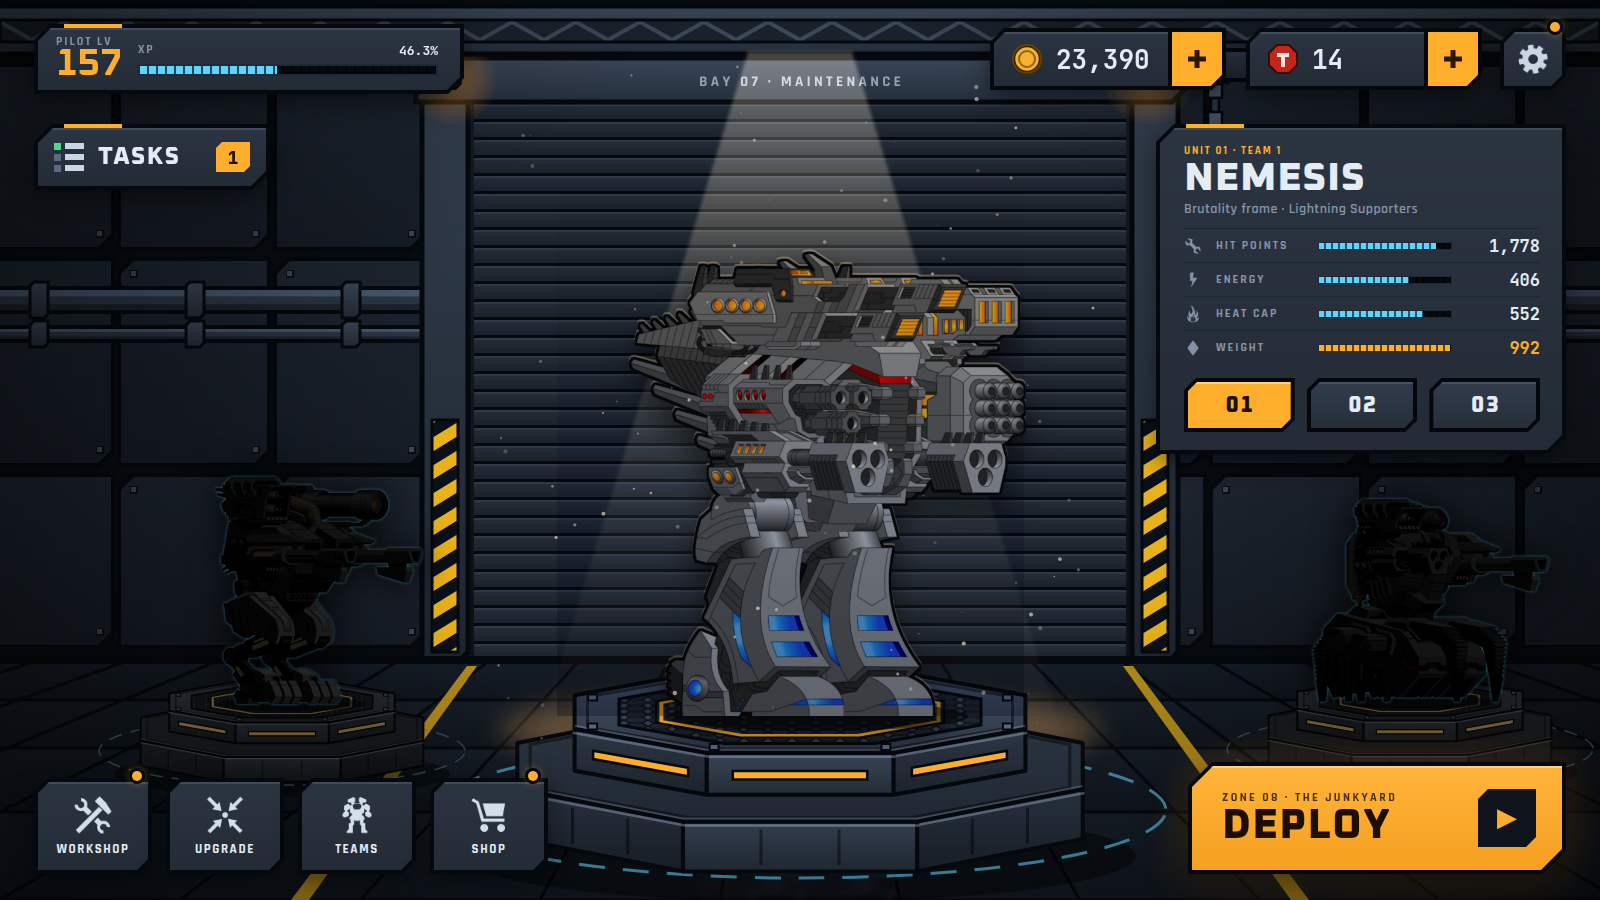
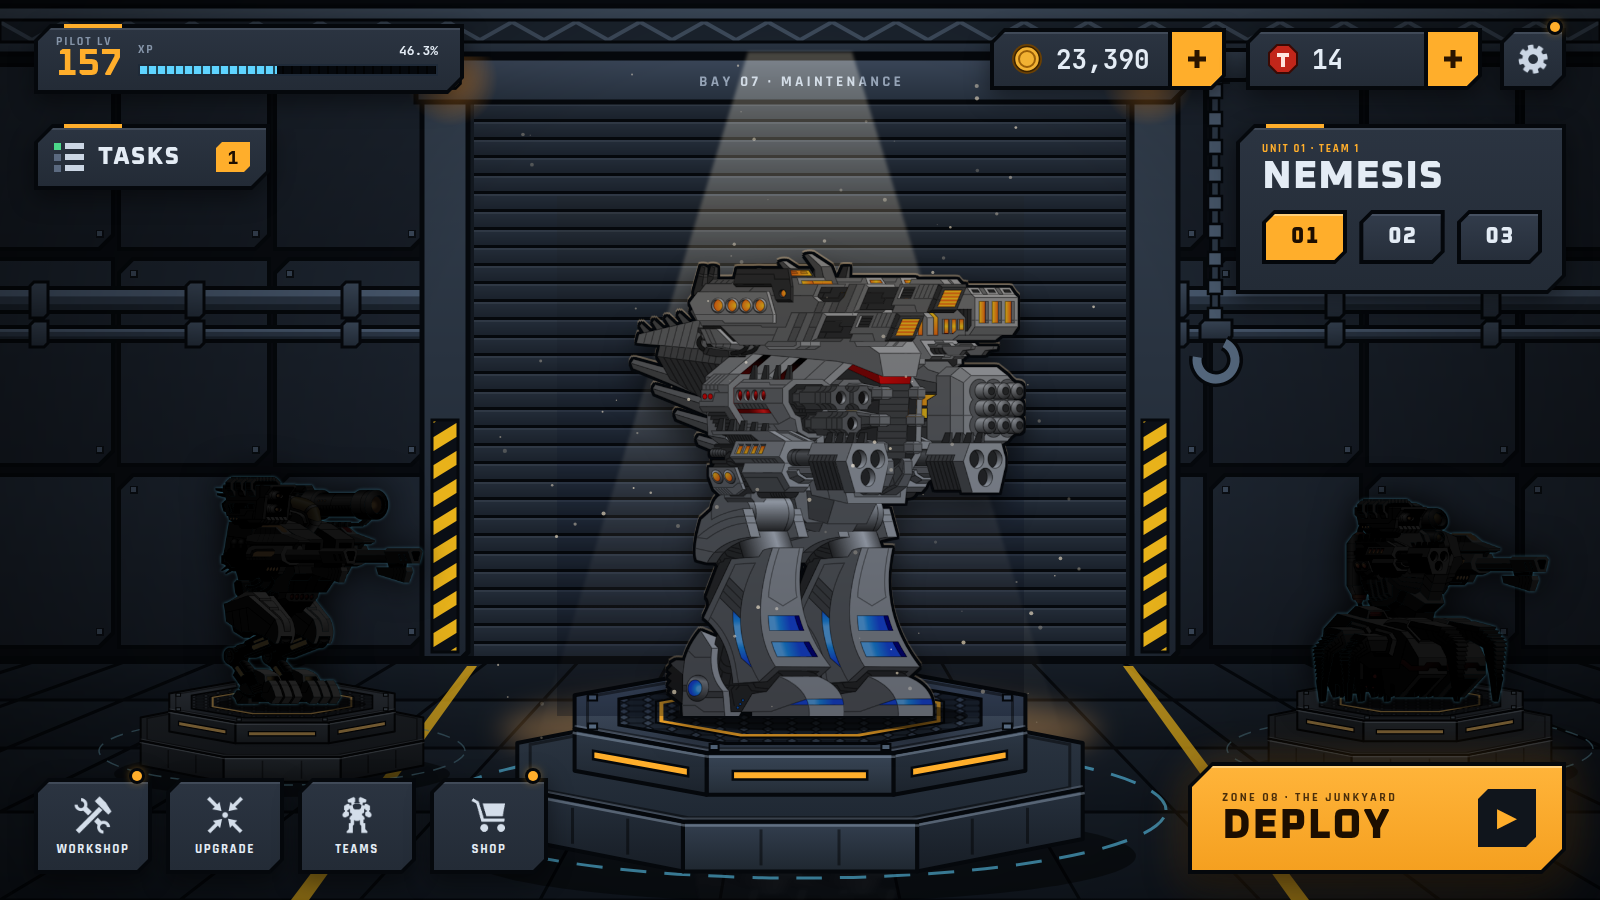
Drop the stats panel from the hangar; keep a compact unit selector
Stats move to the Workshop. The hangar keeps the mech name and the 01/02/03
switch in a small block under the currencies.

Claude-Session: https://claude.ai/code/session_016EMeU7WbdybdkHaQ4QiAx5

Changed region(s): [[0.7188, 0.1244, 1.0, 0.5289]]

diff --git a/ui/mocks/F-bay.html b/ui/mocks/F-bay.html
@@ -98,7 +98,7 @@ canvas{position:absolute;left:0;top:0;width:1600px;height:900px}
 
 /* ---- side panels ---- */
 .ops{left:34px;top:124px;width:410px;height:252px}
-.ops .in,.unit .in{padding:16px 22px 14px 24px}
+.ops .in,.unit .in{padding:14px 20px 14px 22px}
 .ph{display:flex;align-items:baseline;justify-content:space-between;border-bottom:2px solid #223040;padding-bottom:8px;margin-bottom:6px}
 .ph .head{font-size:22px;font-weight:800}
 .ph .lbl{font-size:11px;color:var(--mute)}
@@ -113,7 +113,7 @@ canvas{position:absolute;left:0;top:0;width:1600px;height:900px}
 .q.claim .v{color:var(--green)}
 .q.claim .seg i{background:var(--green)}
 
-.unit{left:1156px;top:124px;width:410px;height:330px}
+.unit{left:1236px;top:124px;width:330px;height:170px}
 .unit .code{font-size:11px;color:var(--amber)}
 .unit h2{font-family:var(--f-head);font-size:40px;line-height:1;font-weight:800;letter-spacing:.02em;text-transform:uppercase}
 .unit .sub{font-size:14px;color:var(--mute);font-weight:600;margin:2px 0 10px;letter-spacing:.03em}
@@ -253,15 +253,10 @@ canvas{position:absolute;left:0;top:0;width:1600px;height:900px}
     <div class="task"><div class="box"></div><span class="t">Win a battle without shutdown</span><div class="rew"><svg viewBox="0 0 34 34"><circle cx="17" cy="17" r="15" fill="#6a4004"/><circle cx="17" cy="17" r="12.5" fill="#f2b233"/></svg><span class="num">2,000</span></div><span class="v num">0 / 1</span><div class="seg"><i style="width:0%"></i></div></div>
   </div></div>
 
-  <!-- unit -->
+  <!-- unit selector -->
   <div class="plate unit"><div class="in">
     <div class="code lbl">Unit 01 · Team 1</div>
     <h2>Nemesis</h2>
-    <div class="sub">Brutality frame · Lightning Supporters</div>
-    <div class="sr"><i class="mask" style="--i:url(assets/icons/icon_HP.png)"></i><span class="lbl">Hit points</span><div class="seg"><i style="width:89%"></i></div><b class="num">1,778</b></div>
-    <div class="sr"><i class="mask" style="--i:url(assets/icons/icon_energy.png)"></i><span class="lbl">Energy</span><div class="seg"><i style="width:68%"></i></div><b class="num">406</b></div>
-    <div class="sr"><i class="mask" style="--i:url(assets/icons/icon_heat.png)"></i><span class="lbl">Heat cap</span><div class="seg"><i style="width:79%"></i></div><b class="num">552</b></div>
-    <div class="sr warn"><i class="mask" style="--i:url(assets/icons/icon_power.png)"></i><span class="lbl">Weight</span><div class="seg"><i style="width:99.2%"></i></div><b class="num">992</b></div>
     <div class="team"><div class="tb on"><div class="in">01</div></div><div class="tb"><div class="in">02</div></div><div class="tb"><div class="in">03</div></div></div>
   </div><div class="notch"></div></div>
 
